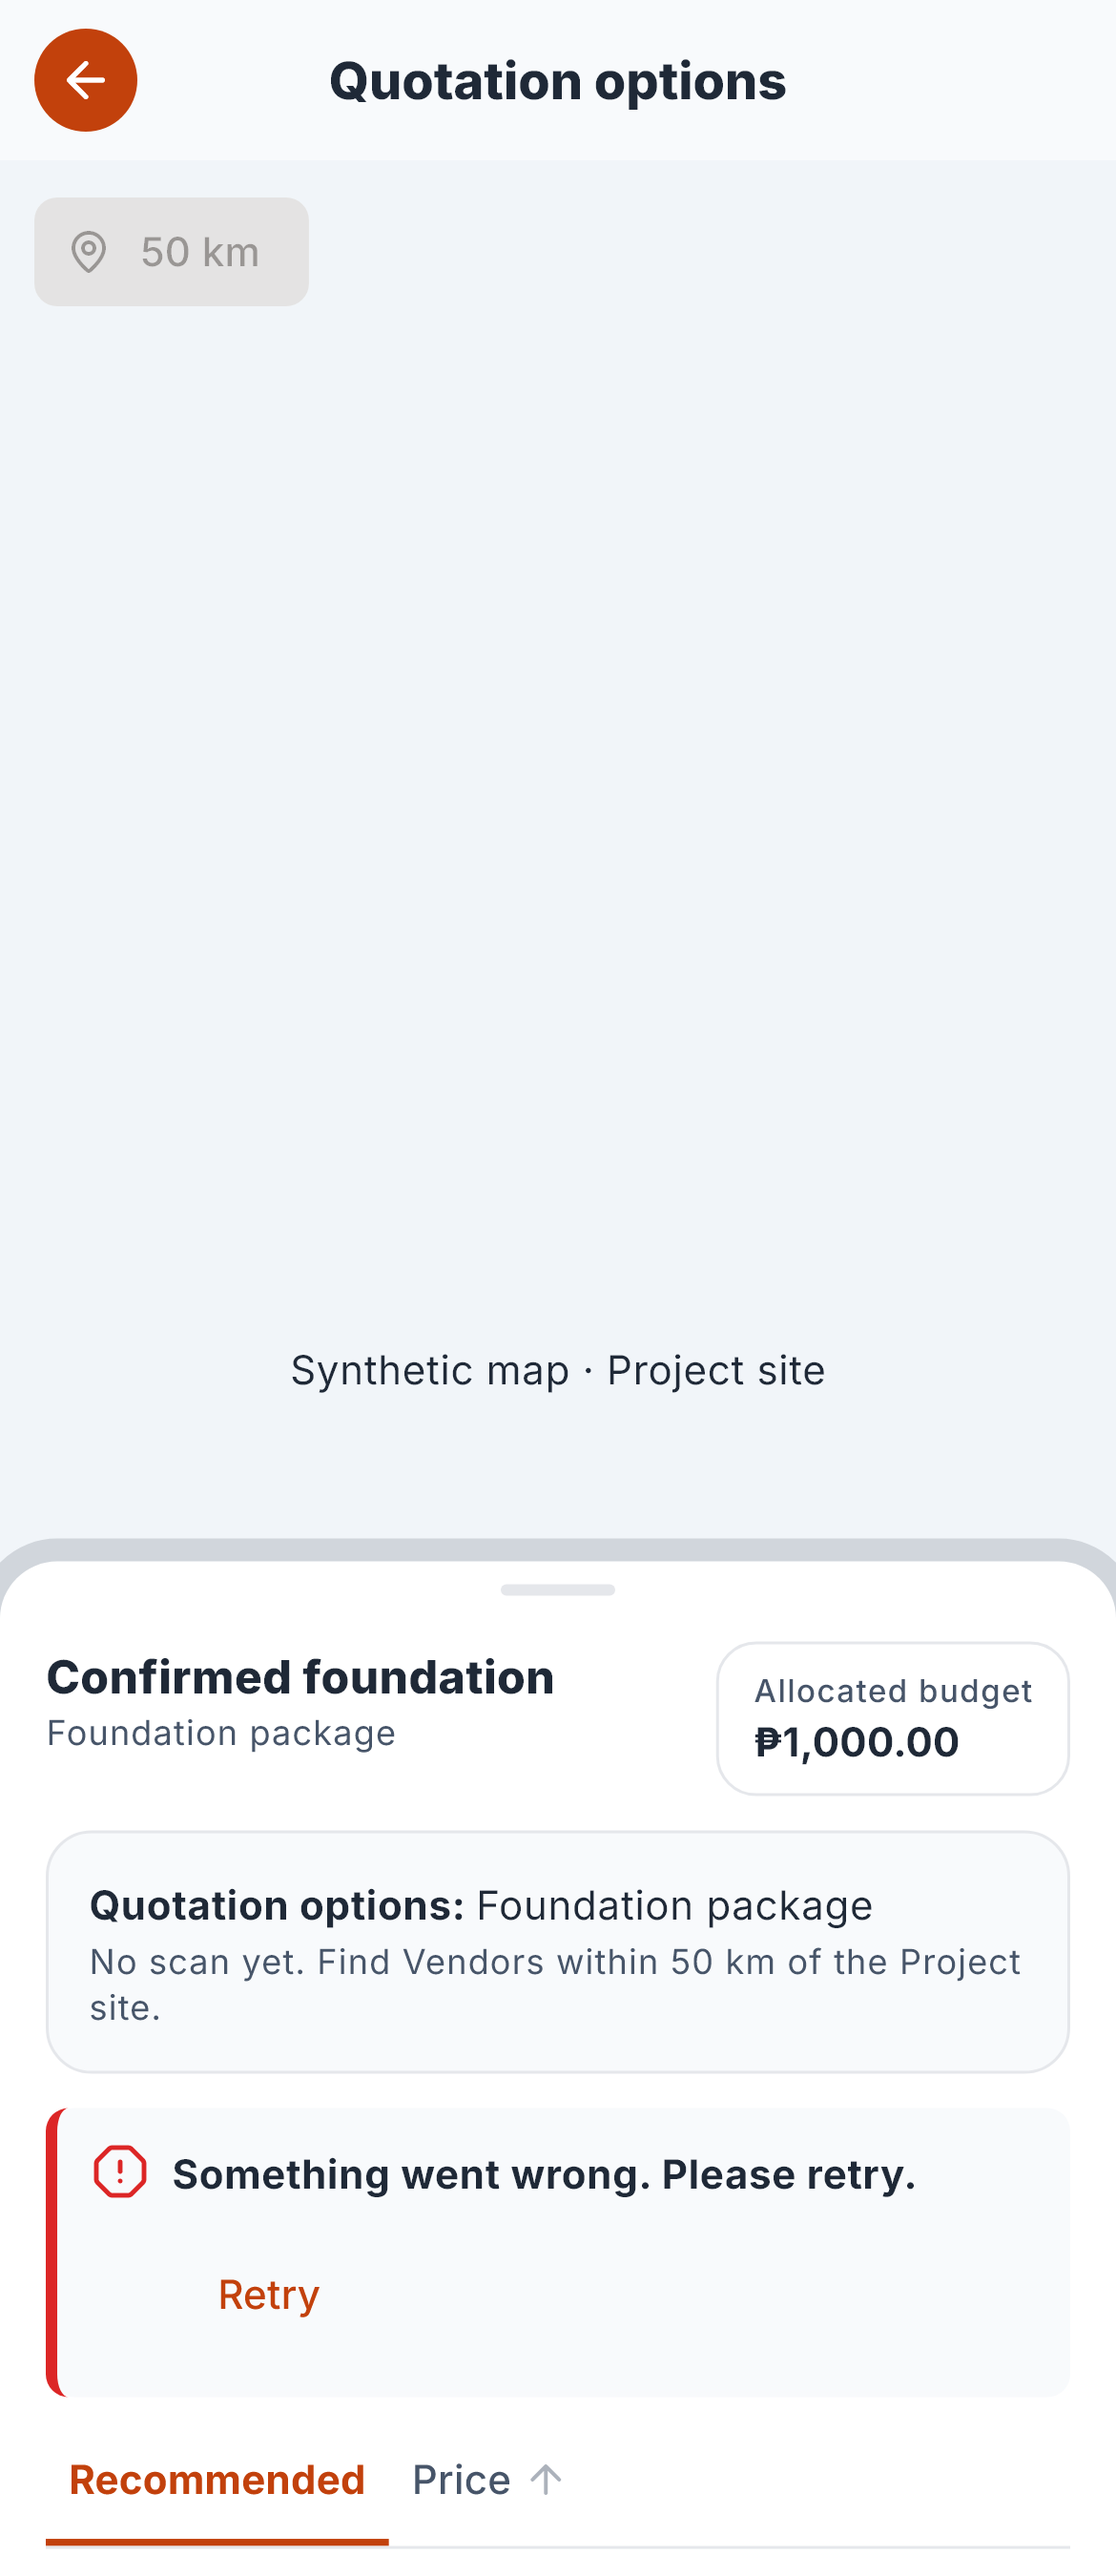
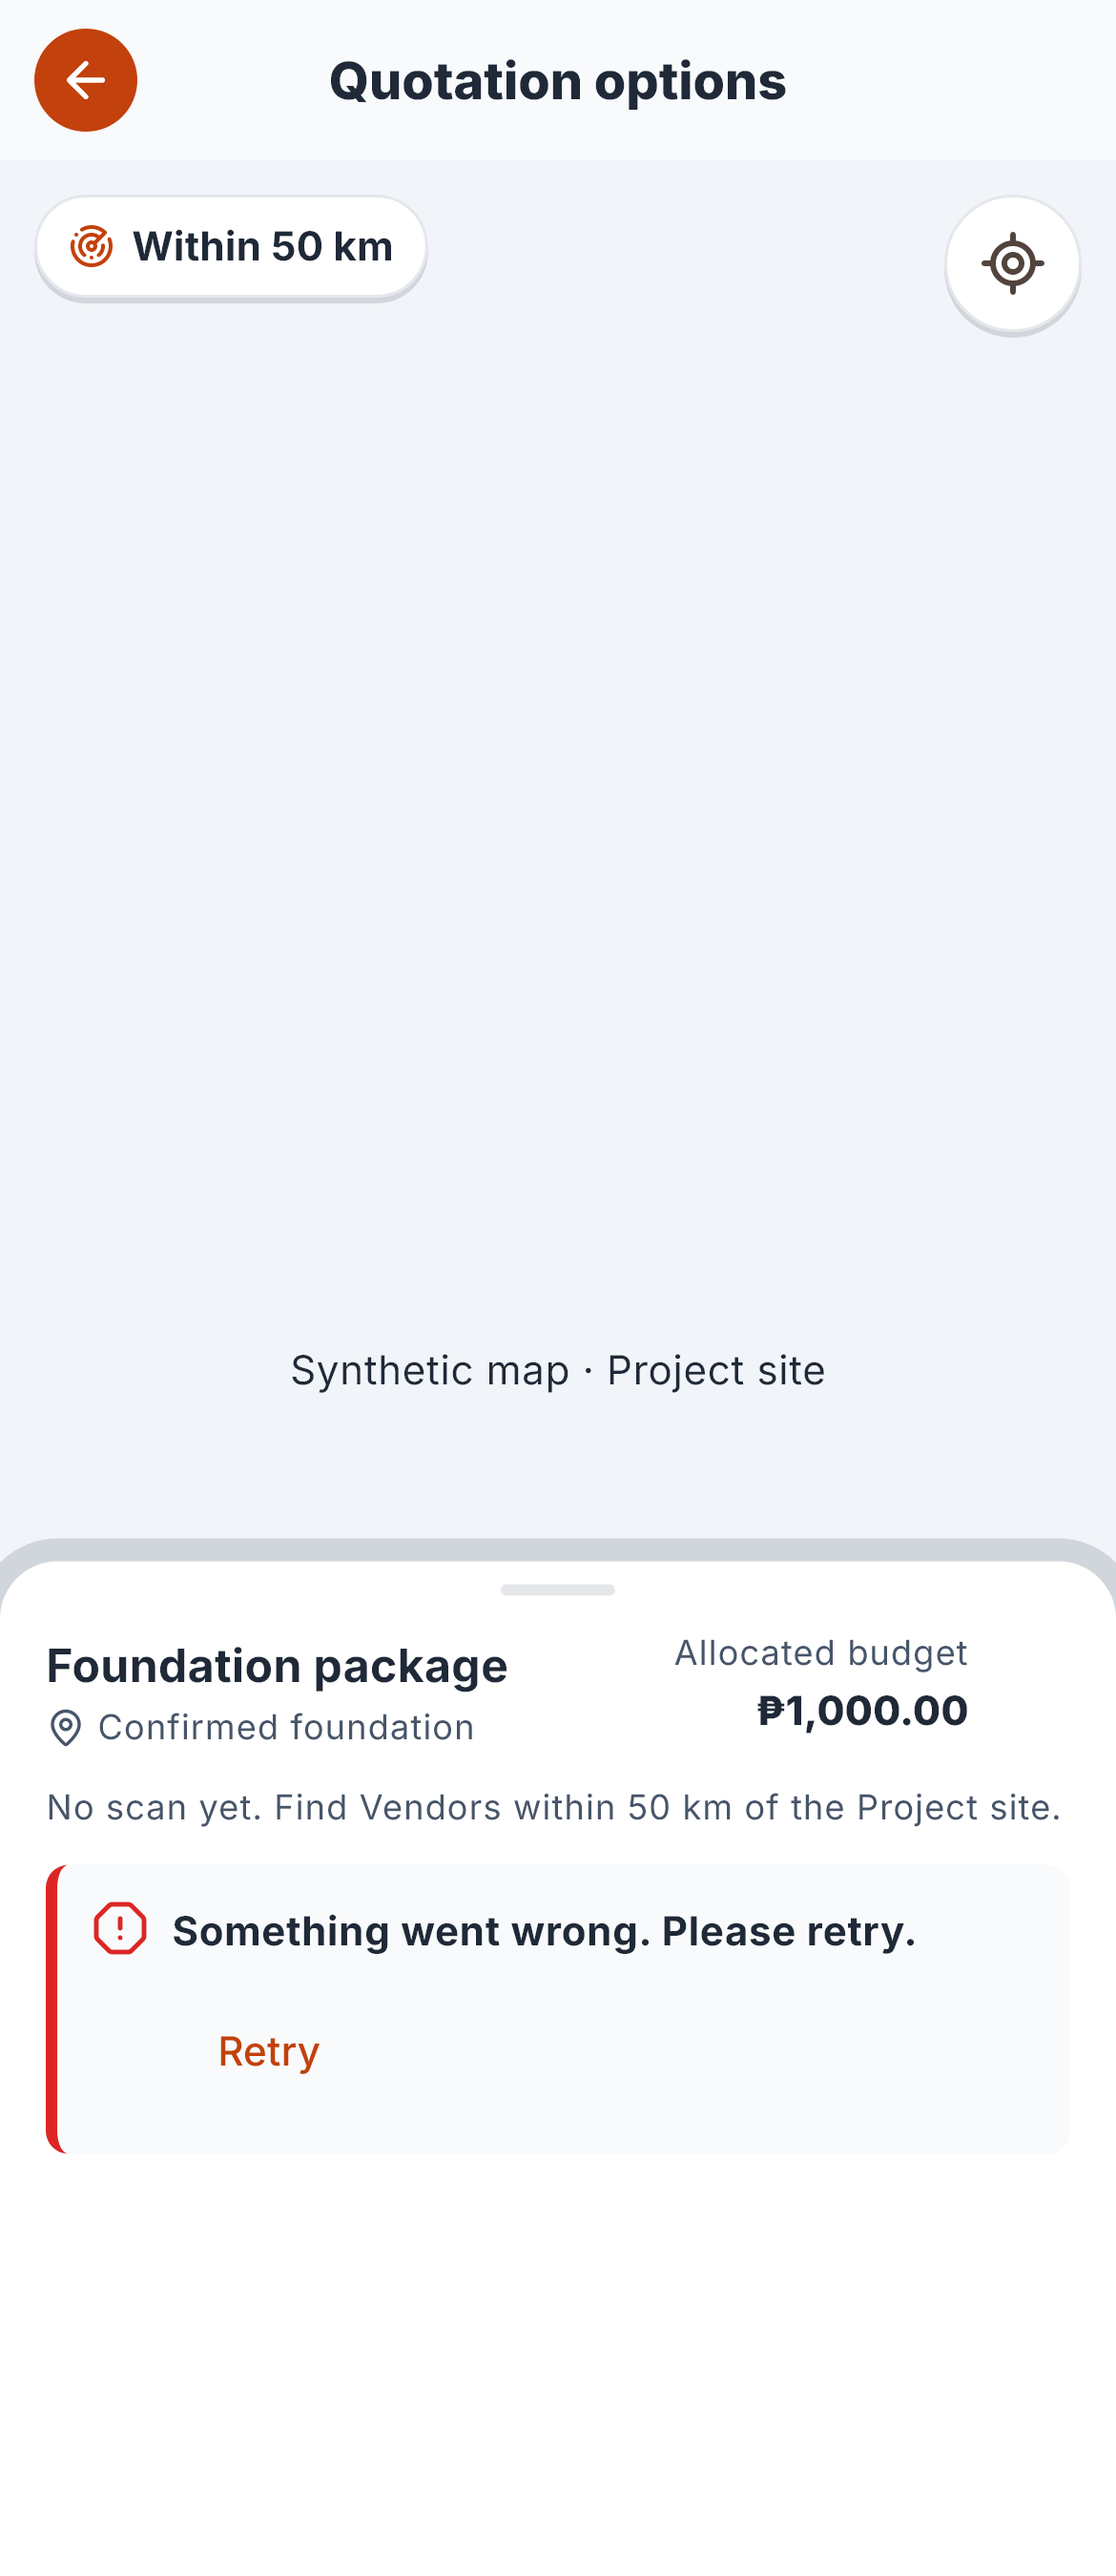
fix(ci): repair retention fixture and refresh buyer goldens

diff --git a/apps/buyer-mobile/test/directory_filters_test.dart b/apps/buyer-mobile/test/directory_filters_test.dart
@@ -78,9 +78,7 @@ void main() {
     'Favorites stand alone; Verified and Directory controls stay under their own tier toggle',
     (tester) async {
       await _openFilters(tester);
-      final favorites = find.byKey(
-        const ValueKey('favorite-supplier-filters'),
-      );
+      final favorites = find.byKey(const ValueKey('favorite-supplier-filters'));
       final verified = find.byKey(const ValueKey('verified-supplier-filters'));
       final directory = find.byKey(
         const ValueKey('directory-supplier-filters'),

diff --git a/apps/buyer-mobile/lib/features/map_discovery/discovery_repository.dart b/apps/buyer-mobile/lib/features/map_discovery/discovery_repository.dart
@@ -504,8 +504,7 @@ final class ApiDiscoveryRepository implements DiscoveryRepository {
             scoreText: favorite.scoreLabel.text,
             currentlyDiscoverable: favorite.currentlyDiscoverable,
             tier:
-                favorite.tier ==
-                    api.FavoriteSupplierTierEnum.DIRECTORY_SUPPLIER
+                favorite.tier == api.FavoriteSupplierTierEnum.DIRECTORY_SUPPLIER
                 ? SupplierTier.directory
                 : SupplierTier.verified,
           ),

diff --git a/services/api/tests/Feature/Api/GeoRunRetentionTest.php b/services/api/tests/Feature/Api/GeoRunRetentionTest.php
@@ -18,7 +18,7 @@ final class GeoRunRetentionTest extends TestCase
     {
         $old = (string) Str::uuid7();
         DB::table('analytics_geo_runs')->insert(['id' => $old, 'environment' => 'TEST', 'through_date' => now()->subDays(31)->toDateString(), 'revision' => 1,
-            'state' => 'FAILED', 'trigger' => 'COMMAND', 'started_at' => now()->subDays(31), 'created_at' => now()->subDays(31), 'updated_at' => now()->subDays(31)]);
+            'state' => 'FAILED', 'error_code' => 'AGGREGATION_FAILED', 'trigger' => 'COMMAND', 'started_at' => now()->subDays(31), 'created_at' => now()->subDays(31), 'updated_at' => now()->subDays(31)]);
         $builder = app(GeoFactsBuilder::class);
         $first = $builder->build('COMMAND');
         self::assertSame('PUBLISHED', $first['state']);

diff --git a/docs/design/evidence/phase-6/README.md b/docs/design/evidence/phase-6/README.md
@@ -2,14 +2,17 @@
 
 Generated by `apps/buyer-mobile/test/phase6_capture_test.dart` (`flutter test test/phase6_capture_test.dart --update-goldens`) from **synthetic fixtures**. The map area is a labelled test surface that lists the same suppliers the Google map would draw. These screenshots show layout and state handling only; they do not show live Google Maps rendering, real Places or Routes data, or provider readiness.
 
+Reviewed and refreshed on 2026-10-26 using Flutter 3.47.3 on Windows, matching the CI SDK and baseline platform. The updated captures retain the current store-name search, Verified/Directory/Favorites tabs, shared supplier preview layout and Directory bookmarks. Normal test runs compare these committed images without updating them.
+
 | File | State |
 | --- | --- |
-| `390-map-home-list.png` | Map Home at 390 px: location selector, radius chips (5 km selected, with a check and bold text), peer supplier list, and the ask-before-expansion prompt |
+| `390-map-home-list.png` | Map Home at 390 px: location selector, radius chips (5 km selected, with a check and bold text), store-name search and Verified/Directory/Favorites tabs |
 | `320-map-home-2x-text.png` | 320 px at 2x text: truncated location and scrollable chips, with no clipped actions |
 | `844x390-landscape-split.png` | Landscape split view: map beside the synchronized list |
 | `390-tier2-preview.png` | Verified Vendor preview with its pin isolated: verified badge, Favorite bookmark, VPS label, open status, driving distance and ETA, category chips, one View Store action and a secondary Message |
-| `390-tier1-directory-details.png` | Directory Supplier Overview: Call (or Open in Google Maps) with Share, informational notice and Google attribution, no Favorite, review tab or transactional actions |
+| `390-tier1-directory-details.png` | Directory Supplier Overview: Favorite bookmark, attributed Google rating, Call (or Open in Google Maps) with Share and informational details; no marketplace transactional actions |
 | `390-tier1-directory-about.png` | Directory Supplier About: opening hours, phone and website from Place Details |
+| `390-tier1-google-reviews.png` | Directory Supplier with the Google Reviews tab selected; provider reviews remain separate from MateryalPH reviews |
 | `390-map-layers.png` | Map type sheet: Map or Satellite basemap, plus the legend |
 | `390-route-unavailable.png` | Route failure: straight-line distance, "ETA unavailable" and Retry |
 | `390-denied-location.png` | Separate first-entry location page with GPS denied: Select It Manually keeps the saved, address and pin paths available |

diff --git a/docs/design/evidence/phase-10/README.md b/docs/design/evidence/phase-10/README.md
@@ -6,4 +6,6 @@ Synthetic fixtures illustrate layout and interaction; they do not establish live
 - Vendor locked original / editable duplicate: 320, 375, 390, 768, 1024, 1280, 1440 and 1920 pixels, captured by `e2e/project-quotation.spec.ts` with reduced motion. The original/proposal are side by side at 1024px and above and stacked below; chat content scrolls inside its existing workspace.
 - Existing Phase 6 goldens were visually reviewed after extracting the shared SupplierPreviewSheet. Original handle spacing, corner shape, elevation and shadow were retained; reviewed corner rasterization changes were refreshed.
 
+The two Buyer Project map baselines were reviewed and refreshed on 2026-10-26 using Flutter 3.47.3 on Windows, matching CI. They retain the current radius/recenter controls and compact package, locked-site and budget summary. The other Project baselines were unchanged. Regenerate with `flutter test test/projects_phase_ten_test.dart --update-goldens` from `apps/buyer-mobile`; normal test runs compare the committed images.
+
 Automated checks verify no horizontal browser overflow, accessible original/proposal regions, disabled Phase 15 PDF controls, Project-only map context, frozen origin, archived controls and exact budget text. See `docs/test-plans/phase-ten-projects.md` for full gates and remaining live checks.
